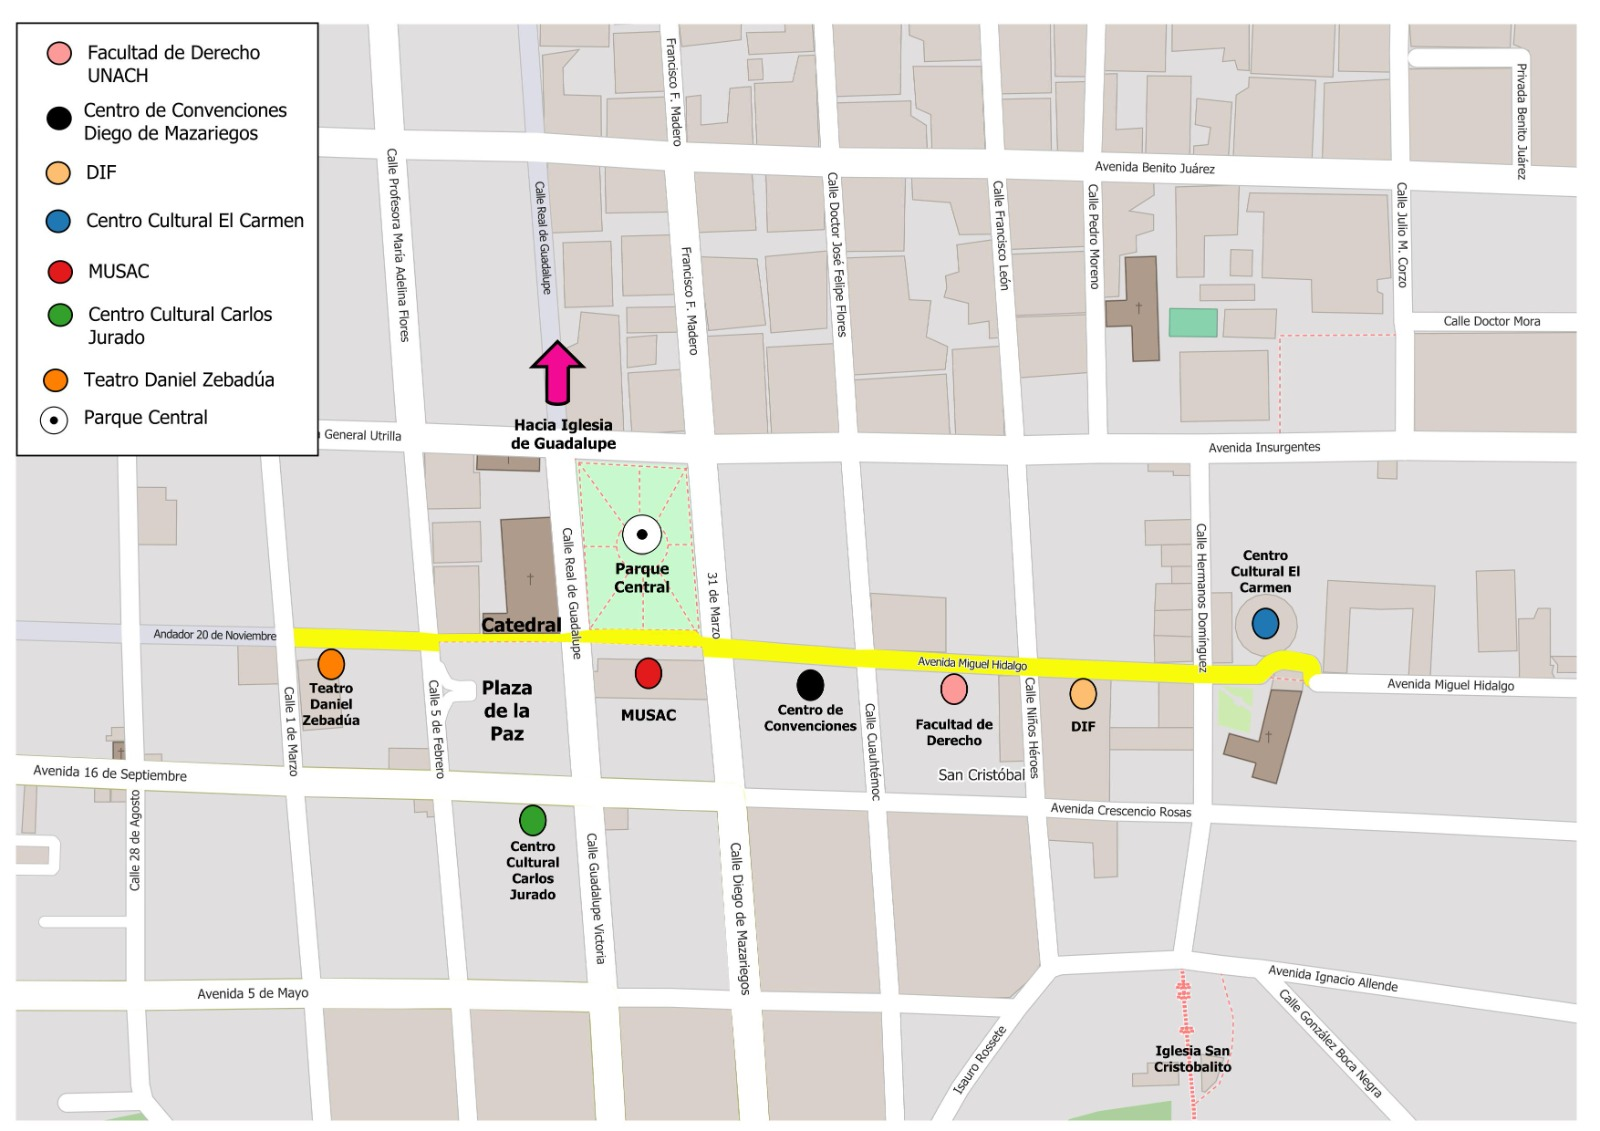
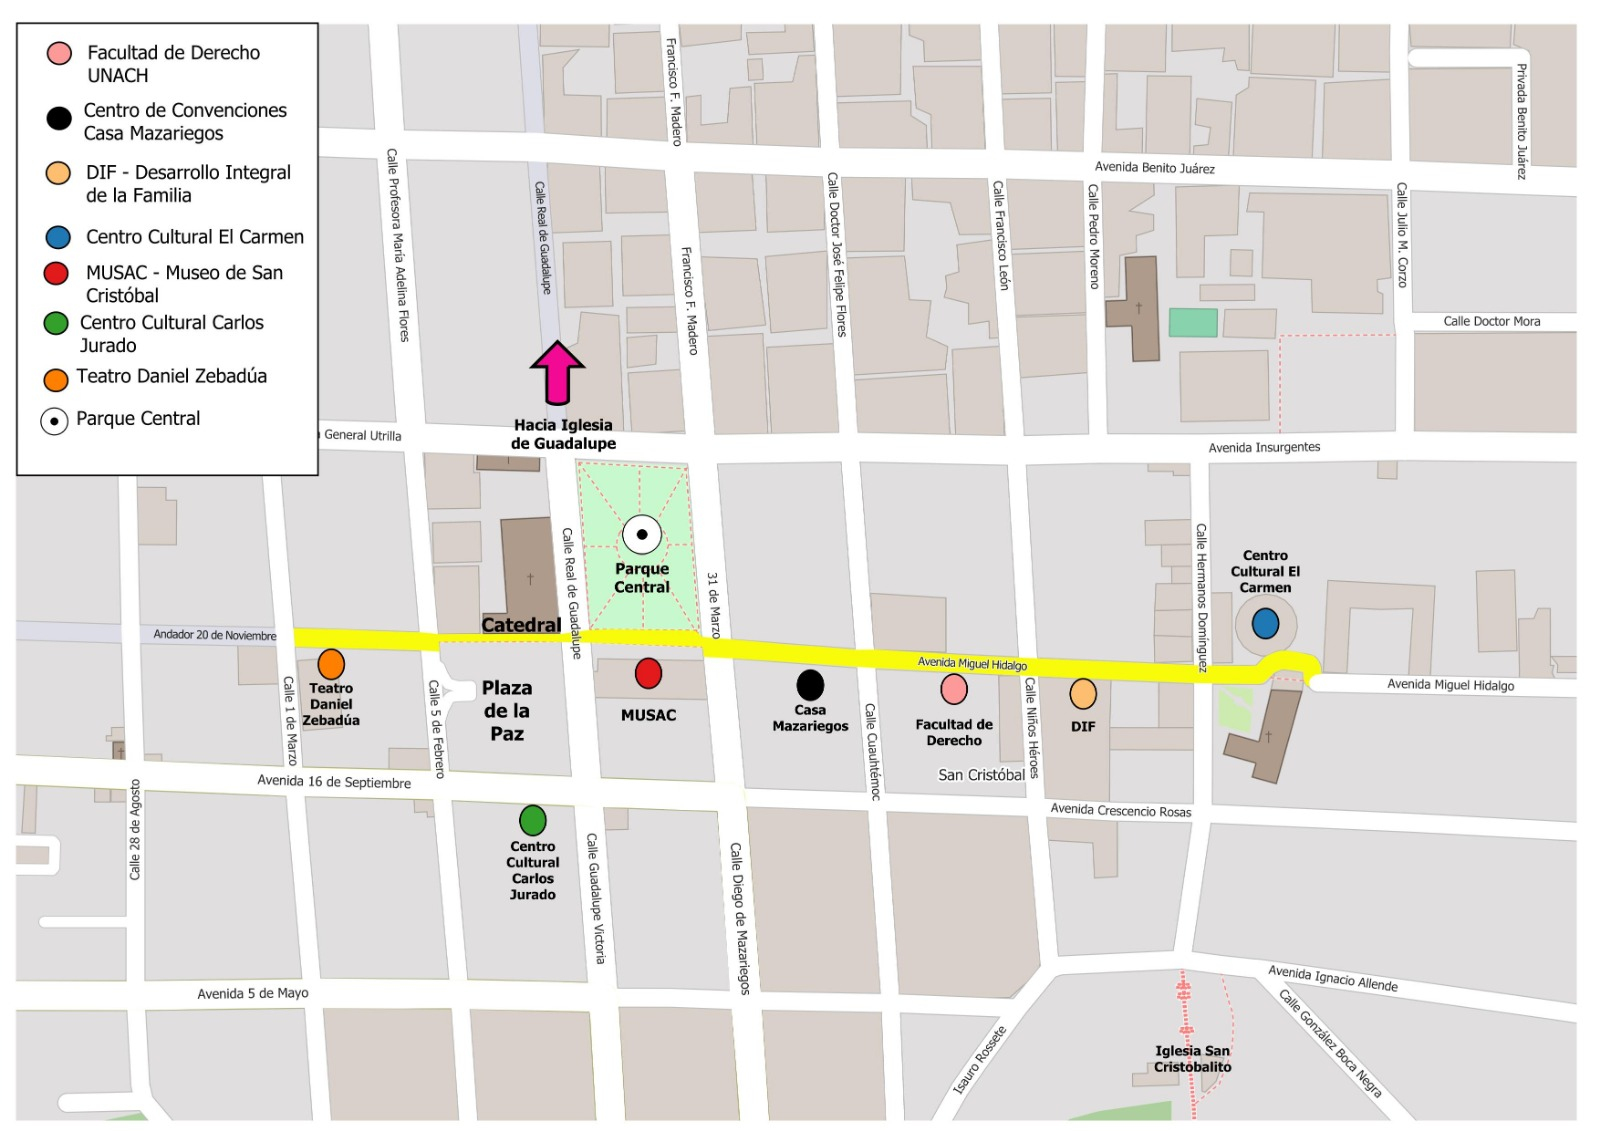
feat: integración de carrusel de instituciones, cartel oficial y actualización de componentes UI

diff --git a/src/components/pages/HomeLanding.jsx b/src/components/pages/HomeLanding.jsx
@@ -7,6 +7,9 @@ import {
 } from 'lucide-react';
 import { supabase } from '../../lib/supabaseClient';
 
+// Importamos el nuevo componente modular
+import InstitutionCarousel from '../common/InstitutionCarousel';
+
 // --- 1. COMPONENTE DEL SLIDER INTELIGENTE (CONECTADO A SUPABASE) ---
 const MainHeroSlider = ({ lang, setCurrentPage }) => {
   const [current, setCurrent] = useState(0);
@@ -163,7 +166,7 @@ const MainHeroSlider = ({ lang, setCurrentPage }) => {
   );
 };
 
-// --- 2. COMPONENTE DE LÍNEA DE TIEMPO (CORREGIDO ESPACIADO) ---
+// --- 2. COMPONENTE DE LÍNEA DE TIEMPO ---
 const TimelineItem = ({ date, title, desc, icon: Icon, status, align, index }) => {
   const [isVisible, setIsVisible] = useState(false);
   const domRef = useRef();
@@ -184,8 +187,6 @@ const TimelineItem = ({ date, title, desc, icon: Icon, status, align, index }) =
 
   return (
     <div ref={domRef} className={`relative flex flex-col md:flex-row items-center justify-between mb-12 transition-all duration-700 ${isVisible ? 'opacity-100 translate-y-0' : 'opacity-0 translate-y-10'}`}>
-      
-      {/* LADO IZQUIERDO (Escritorio) */}
       <div className="hidden md:block w-1/2 pr-12 text-right">
         {isLeft && (
           <div>
@@ -196,23 +197,18 @@ const TimelineItem = ({ date, title, desc, icon: Icon, status, align, index }) =
         )}
       </div>
 
-      {/* ICONO CENTRAL */}
       <div className="absolute left-4 md:left-1/2 md:-translate-x-1/2 flex items-center justify-center">
         <div className={`w-12 h-12 rounded-full border-4 border-white shadow-lg flex items-center justify-center z-10 ${colors[status] || colors.future}`}>
           <Icon size={20} />
         </div>
       </div>
 
-      {/* LADO DERECHO (Móvil y Escritorio) */}
       <div className="w-full pl-20 md:w-1/2 md:pl-12 text-left">
-        {/* Vista Móvil */}
         <div className="md:hidden">
           <span className="text-xs font-bold text-[#1e3a5f] block mb-1 uppercase tracking-wider">{date}</span>
           <h3 className="text-lg font-bold text-gray-800">{title}</h3>
           <p className="text-gray-500 text-sm">{desc}</p>
         </div>
-        
-        {/* Vista Escritorio */}
         {!isLeft && (
           <div className="hidden md:block">
             <span className={`inline-block px-3 py-1 rounded-full text-xs font-bold mb-2 ${status === 'done' ? 'bg-blue-100 text-[#1e3a5f]' : 'bg-gray-100 text-gray-500'}`}>{date}</span>
@@ -231,17 +227,14 @@ const HomeLanding = ({ lang, setCurrentPage }) => {
   const [statusResult, setStatusResult] = useState(null);
   const [loadingCheck, setLoadingCheck] = useState(false);
   
-  // Estados para la línea mágica
   const [lineProgress, setLineProgress] = useState(0);
   const timelineRef = useRef(null);
 
-  // Efecto que pinta la línea conforme scrolleas
   useEffect(() => {
     const handleScroll = () => {
       if (!timelineRef.current) return;
       const rect = timelineRef.current.getBoundingClientRect();
       const windowHeight = window.innerHeight;
-      
       const scrollPercentage = ((windowHeight / 2) - rect.top) / rect.height * 100;
       const clampedPercentage = Math.max(0, Math.min(100, scrollPercentage));
       setLineProgress(clampedPercentage);
@@ -282,7 +275,7 @@ const HomeLanding = ({ lang, setCurrentPage }) => {
   };
 
   const timelineEvents = [
-    { date: lang === 'es' ? '8 de Febrero 2026' : '8 de Fevereiro 2026', title: lang === 'es' ? 'Ponencias Aceptadas' : 'Trabalhos Aceitos', desc: lang === 'es' ? 'Publicación de resultados de trabajos aceptados.' : 'Publicação dos resultados dos trabalhos aceitos.', icon: CheckCircle, status: 'done' },
+    { date: lang === 'es' ? '8 de Febrero 2026' : '8 de Fevereiro 2026', title: lang === 'es' ? 'Ponencias Aceptadas' : 'Trabalhos Aceitos', desc: lang === 'es' ? 'Publicación de resultados de trabajos aceptados.' : 'Publicação dos resultados dos trabajos aceitos.', icon: CheckCircle, status: 'done' },
     { date: lang === 'es' ? 'Abril 2026' : 'Abril 2026', title: lang === 'es' ? 'Inicio de Inscripciones' : 'Início das Inscrições', desc: lang === 'es' ? 'Registro disponible para asistentes y ponentes.' : 'Registro disponível para participantes e palestrantes.', icon: UserPlus, status: 'active' },
     { date: '31 Mayo 2026', title: lang === 'es' ? 'Concluye 1er plazo de pago' : 'Encerra 1º prazo de pagamento', desc: lang === 'es' ? 'Último día para aprovechar el mayor descuento.' : 'Último dia para aproveitar o maior desconto.', icon: DollarSign, status: 'future' },
     { date: '15 de Junio 2026', title: lang === 'es' ? 'Presentaciones de libros' : 'Apresentações de livros', desc: lang === 'es' ? 'Finaliza el plazo para enviar propuestas.' : 'Encerra o prazo para envio de propostas.', icon: Book, status: 'future' },
@@ -329,12 +322,8 @@ const HomeLanding = ({ lang, setCurrentPage }) => {
            </p>
         </div>
         
-        {/* Contenedor que medimos con useRef */}
         <div className="relative" ref={timelineRef}>
-           {/* Línea Gris Base (Inactiva) */}
            <div className="absolute left-4 md:left-1/2 top-0 bottom-0 w-0.5 bg-gray-200 -translate-x-1/2 rounded-full"></div>
-           
-           {/* Línea Azul que se llena con el scroll */}
            <div 
              className="absolute left-4 md:left-1/2 top-0 w-1 bg-[#1e3a5f] -translate-x-1/2 rounded-b-full shadow-[0_0_10px_rgba(30,58,95,0.4)] transition-all duration-150 ease-out z-0"
              style={{ height: `${lineProgress}%` }}
@@ -356,7 +345,7 @@ const HomeLanding = ({ lang, setCurrentPage }) => {
             {lang === 'es' ? 'Verifica tu Inscripción' : 'Verificar Inscrição'}
           </h2>
           <p className="text-gray-600 leading-relaxed text-sm">
-            {lang === 'es' ? 'Si ya realizaste tu pago, ingresa tu correo para verificar tu estatus.' : 'Se você já realizou seu pagamento, insira seu e-mail para verificar seu status.'}
+            {lang === 'es' ? 'Si ya realizaste tu pago, ingresa tu correo para verificar tu estatus.' : 'Se você ya realizó su pago, insira seu e-mail para verificar seu status.'}
           </p>
         </div>
         <div className="flex-1 w-full max-w-md bg-white p-6 rounded-xl shadow-lg border border-gray-100 ring-1 ring-gray-100">        
@@ -394,16 +383,9 @@ const HomeLanding = ({ lang, setCurrentPage }) => {
         </div>
       </div>
 
-      {/* 5. LOGOS */}
-      <div className="border-t border-gray-200 pt-10 pb-4">
-        <p className="text-center text-xs text-gray-400 font-bold mb-8 uppercase tracking-[0.2em]">{lang === 'es' ? 'Instituciones Convocantes' : 'Instituições Convocantes'}</p>
-        <div className="flex flex-wrap justify-center items-center gap-8 md:gap-16 opacity-50 grayscale hover:grayscale-0 transition-all duration-700">
-           <div className="h-14 px-6 bg-white border-2 border-gray-100 rounded-lg flex items-center justify-center font-black text-gray-300 text-xl shadow-sm select-none hover:border-[#1e3a5f] hover:text-[#1e3a5f] hover:shadow-md transition-all">UNICACH</div>        
-           <div className="h-14 px-6 bg-white border-2 border-gray-100 rounded-lg flex items-center justify-center font-black text-gray-300 text-xl shadow-sm select-none hover:border-[#1e3a5f] hover:text-[#1e3a5f] hover:shadow-md transition-all">IASPM</div>
-           <div className="h-14 px-6 bg-white border-2 border-gray-100 rounded-lg flex items-center justify-center font-black text-gray-300 text-xl shadow-sm select-none hover:border-[#1e3a5f] hover:text-[#1e3a5f] hover:shadow-md transition-all">CESMECA</div>        
-           <div className="h-14 px-6 bg-white border-2 border-gray-100 rounded-lg flex items-center justify-center font-black text-gray-300 text-xl shadow-sm select-none hover:border-[#1e3a5f] hover:text-[#1e3a5f] hover:shadow-md transition-all">CHIAPAS</div>        
-        </div>
-      </div>
+      {/* 5. SECCIÓN DE LOGOS (Usando el nuevo componente modular) */}
+      <InstitutionCarousel lang={lang} />
+
     </div>
   );
 };

diff --git a/src/App.jsx b/src/App.jsx
@@ -88,20 +88,21 @@ const MainLayout = ({ lang, setLang }) => {
       ]      
     },
     {
-  id: 'info-complementaria',
-  label: 'Información complementaria',
-  label_pt: 'Informações complementares',
-  submenu: [
-    { id: 'sedes', label: 'Las sedes del Congreso', label_pt: 'As sedes do Congresso' },
+      id: 'info-complementaria',
+      label: 'Información complementaria',
+      label_pt: 'Informações complementares',
+      submenu: [
+        { id: 'sedes', label: 'Las sedes del Congreso', label_pt: 'As sedes do Congresso' },
+        { id: 'organizaciones', label: 'Entidades colaboradoras', label_pt: 'Entidades colaboradoras' },
+        { id: 'alojamiento', label: 'Alojamiento', label_pt: 'Hospedagem' },
+        { id: 'san-cristobal', label: 'Lugares para comer', label_pt: 'Lugares para comer' }, 
+        { id: 'musica-vivo', label: 'Música en vivo', label_pt: 'Música ao vivo' }, 
+        { id: 'cartel', label: 'Cartel del congreso', label_pt: 'Pôster do congresso' }
+      ]
+    },    
+    // --- NUEVO NIVEL: INSTITUCIONES CONVOCANTES ---
     { id: 'instituciones-convocantes', label: 'Instituciones convocantes', label_pt: 'Instituições convocantes' },
-    { id: 'organizaciones', label: 'Entidades colaboradoras', label_pt: 'Entidades colaboradoras' },
-    { id: 'alojamiento', label: 'Alojamiento', label_pt: 'Hospedagem' },
-    { id: 'san-cristobal', label: 'Lugares para comer', label_pt: 'Lugares para comer' }, 
-    { id: 'musica-vivo', label: 'Música en vivo', label_pt: 'Música ao vivo' }, 
-    { id: 'cartel', label: 'Cartel del congreso', label_pt: 'Pôster do congresso' }
-  ]
-},    
-      //--- NUEVA PESTAÑA: GALERÍA ---
+    //--- NUEVA PESTAÑA: GALERÍA ---
     { id: 'galeria', label: 'Galería', label_pt: 'Galeria' }
   ];
 
@@ -292,7 +293,6 @@ const MainLayout = ({ lang, setLang }) => {
                   : 'O XVII Congresso convida a expor a produção bibliográfica dos sócios da IASPM-AL e a apresentar as obras que tenham sido publicadas de 2023 até a presente data.'}
               </p>
 
-              {/* NUEVO BLOQUE: Fecha límite y correo */}
               <div className="mb-8 p-5 md:p-6 bg-blue-50/80 rounded-xl border-l-4 border-[#1e3a5f] shadow-sm flex flex-col md:flex-row gap-4 items-start md:items-center justify-between">
                 <div>
                   <h4 className="font-black text-[#1e3a5f] uppercase tracking-wide text-sm mb-1.5">
@@ -308,7 +308,6 @@ const MainLayout = ({ lang, setLang }) => {
                   iaspm.al.2026@gmail.com
                 </a>
               </div>
-              {/* FIN DEL NUEVO BLOQUE */}
 
               <div className="grid grid-cols-1 md:grid-cols-2 gap-6">
                 <div className="flex items-start gap-4 p-5 bg-blue-50/50 rounded-xl border border-blue-100">
@@ -360,7 +359,6 @@ const MainLayout = ({ lang, setLang }) => {
       case 'comite-academico': 
         return (
           <div className="space-y-6 animate-in fade-in duration-500">
-            {/* Grid de 2 columnas para mantener el tamaño de la primera imagen */}
             <div className="grid grid-cols-1 md:grid-cols-2 gap-4">
               {[
                 { name: 'Lizette Alegre', country: 'México' },
@@ -371,7 +369,6 @@ const MainLayout = ({ lang, setLang }) => {
                 { name: 'Mercedes Liska', country: 'Argentina' },
                 { name: 'Darío Tejeda', country: 'República Dominicana' }
               ].map((member, idx) => (
-                // rounded-none quita cualquier redondeo de las esquinas
                 <div key={idx} className="bg-gray-50 p-6 rounded-none border border-gray-200 hover:bg-white transition-colors">
                   <p className="font-bold text-gray-900 text-base">
                     {member.name}
@@ -393,6 +390,19 @@ const MainLayout = ({ lang, setLang }) => {
       case 'galeria': return <Gallery lang={lang} />;
       case 'instituciones-convocantes': return <div className="text-center"><img src="/images/instituciones.png" alt="Instituciones convocantes" className="max-w-full mx-auto" /></div>; 
       
+      // --- NUEVO CASO: CARTEL ---
+      case 'cartel': 
+        return (
+          <div className="flex justify-center py-8 animate-in fade-in duration-500">
+            <img 
+              src="/images/cartel-congreso.png" 
+              alt={lang === 'es' ? 'Cartel Oficial' : 'Pôster Oficial'} 
+              className="w-full h-auto max-w-4xl rounded-xl shadow-2xl border border-gray-200" 
+            />
+          </div>
+        );
+      // --------------------------
+
       default: return <div className="p-8 text-center text-gray-500 bg-gray-50 rounded-xl border border-dashed border-gray-300">{lang === 'es' ? 'Contenido en preparación.' : 'Conteúdo em preparação.'}</div>;
     }
   };
@@ -430,7 +440,6 @@ const MainLayout = ({ lang, setLang }) => {
             lang={lang}
           />
 
-          {/* AJUSTE APLICADO: Aquí está el min-w-0 para evitar el empuje del contenido */}
           <section className="min-w-0 bg-white rounded-2xl shadow-xl min-h-[600px] relative overflow-hidden transition-all duration-300">
 
             <div className="absolute inset-0 z-0 opacity-[0.02] bg-[url('/images/Marimba_Watermark.png')] bg-cover bg-center bg-no-repeat pointer-events-none"></div>

diff --git a/src/components/common/InstitutionCarousel.jsx b/src/components/common/InstitutionCarousel.jsx
@@ -1,0 +1,46 @@
+import React, { useState, useEffect } from 'react';
+
+const InstitutionCarousel = ({ lang }) => {
+  const [currentSlide, setCurrentSlide] = useState(0);
+  const slides = [
+    '/images/carrusel_instituciones_1.png',
+    '/images/carrusel_instituciones_2.png'
+  ];
+
+  useEffect(() => {
+    const timer = setInterval(() => {
+      setCurrentSlide((prev) => (prev === slides.length - 1 ? 0 : prev + 1));
+    }, 5000);
+    return () => clearInterval(timer);
+  }, [slides.length]);
+
+  return (
+    <div className="border-t border-gray-200 pt-10 pb-4">
+      <p className="text-center text-xs text-gray-400 font-bold mb-8 uppercase tracking-[0.2em]">
+        {lang === 'es' ? 'Instituciones Convocantes' : 'Instituições Convocantes'}
+      </p>
+      
+      {/* Contenedor con altura fija para evitar saltos de layout */}
+      <div className="relative h-48 md:h-64 w-full flex justify-center items-center overflow-hidden">
+        {slides.map((src, index) => (
+          <div
+            key={src}
+            className={`absolute inset-0 transition-opacity duration-1000 ease-in-out flex justify-center items-center ${
+              index === currentSlide ? 'opacity-100 z-10' : 'opacity-0 z-0'
+            }`}
+          >
+            <img
+              src={src}
+              alt="Instituciones Convocantes"
+              className="max-h-full max-w-full object-contain px-4"
+              // Agregamos un error handler por si la imagen no carga
+              onError={(e) => { e.target.style.display = 'none'; }}
+            />
+          </div>
+        ))}
+      </div>
+    </div>
+  );
+};
+
+export default InstitutionCarousel;

diff --git a/src/components/layout/MobileSidebar.jsx b/src/components/layout/MobileSidebar.jsx
@@ -2,7 +2,7 @@
 import React from 'react';
 import { 
   X, ChevronDown, Home, Info, Mic, Ticket, Users, FileText, Calendar, 
-  BookOpen, MapPin, Building, Briefcase, Music // <-- Añadimos Music
+  BookOpen, MapPin, Building, Briefcase, Music, Image // <-- Añadimos Image para la Galería
 } from 'lucide-react';
 
 const MobileSidebar = ({ isOpen, onClose, menuItems, currentPage, setCurrentPage, submenuOpen, toggleSubmenu, lang }) => {
@@ -17,7 +17,8 @@ const MobileSidebar = ({ isOpen, onClose, menuItems, currentPage, setCurrentPage
       'info-complementaria': Info, 'sedes': MapPin, 'instituciones-convocantes': Building,
       'organizaciones': Users, 'alojamiento': Home, 'san-cristobal': MapPin, 
       'musica-vivo': Music, // <-- Nuevo icono
-      'cartel': FileText
+      'cartel': FileText,
+      'galeria': Image // <-- Añadido el ícono para la Galería
     };
     return icons[id] || Info;
   };

diff --git a/src/components/layout/Sidebar.jsx b/src/components/layout/Sidebar.jsx
@@ -2,7 +2,7 @@
 import React from 'react';
 import { 
   Home, Info, Mic, Ticket, Users, FileText, Calendar, 
-  BookOpen, MapPin, Building, ChevronDown, ChevronRight, Briefcase, Globe, Music 
+  BookOpen, MapPin, Building, ChevronDown, ChevronRight, Briefcase, Globe, Music, Image 
 } from 'lucide-react';
 
 const Sidebar = ({ menuItems, currentPage, setCurrentPage, submenuOpen, toggleSubmenu, lang }) => {
@@ -27,7 +27,8 @@ const Sidebar = ({ menuItems, currentPage, setCurrentPage, submenuOpen, toggleSu
       'alojamiento': Home,
       'san-cristobal': MapPin,
       'musica-vivo': Music, 
-      'cartel': FileText
+      'cartel': FileText,
+      'galeria': Image // <--- Agregamos el ícono de la cámara/foto para Galería
     };
     return icons[id] || ChevronRight;
   };
